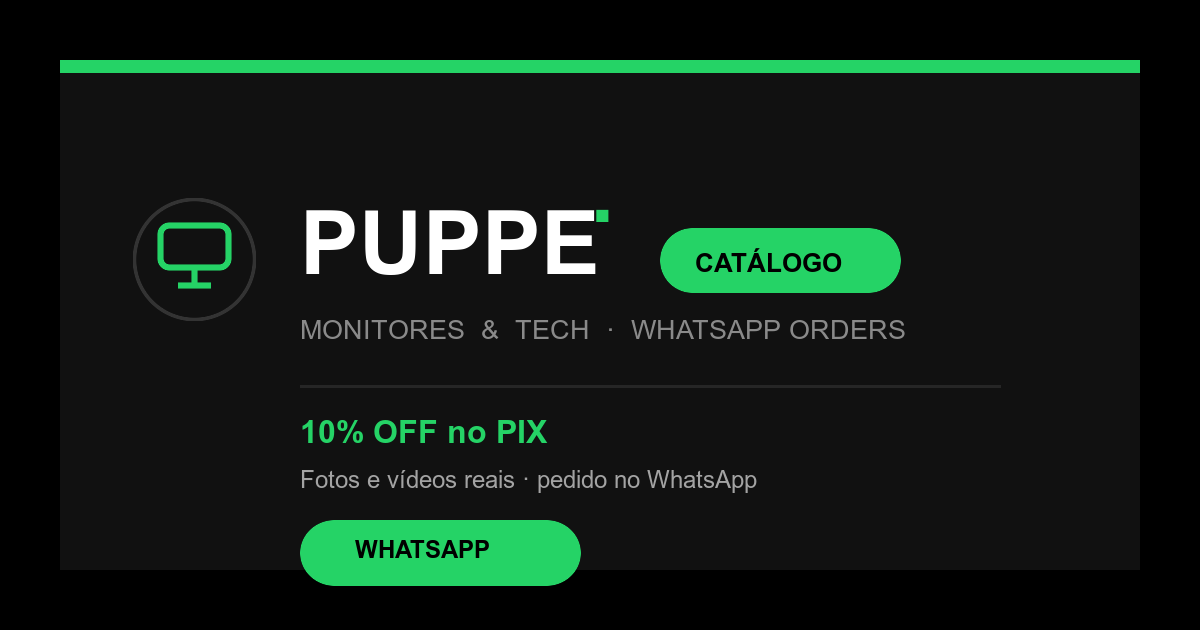
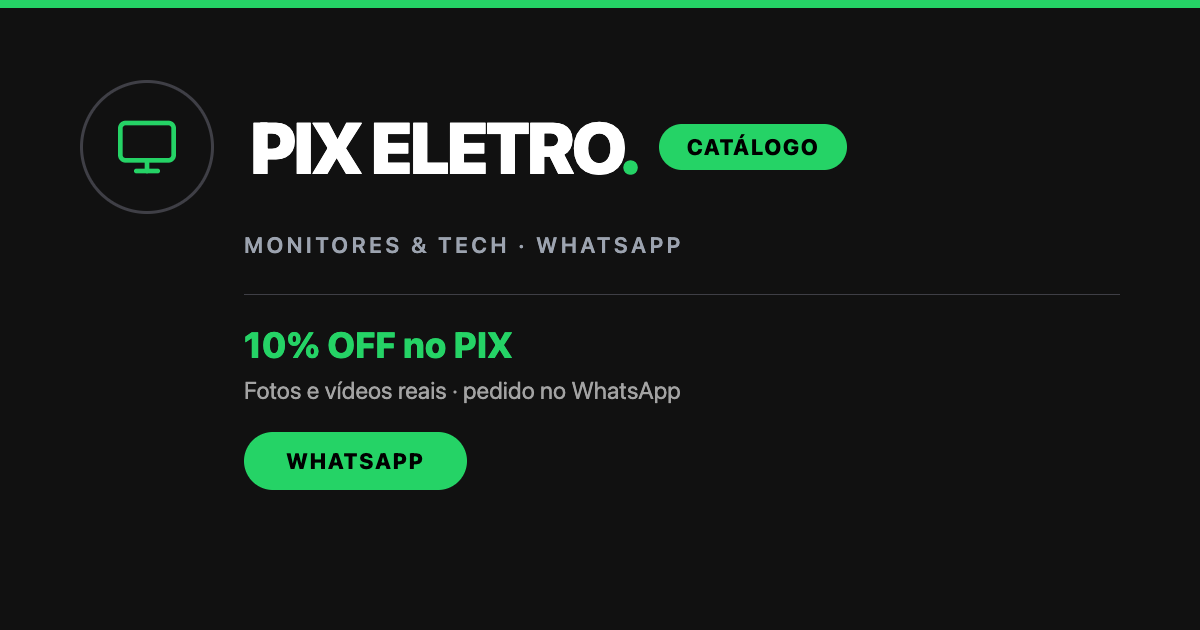
feat: rebrand shop to Pix Eletro
Wordmark, PWA, OG card, company default and theme key
now say Pix Eletro instead of Puppe Eletrônicos.

diff --git a/web/templates/app.html b/web/templates/app.html
@@ -8,7 +8,7 @@
   <script>
     (function () {
       try {
-        var t = localStorage.getItem('puppe-shop-theme')
+        var t = localStorage.getItem('pix-eletro-shop-theme') || localStorage.getItem('puppe-shop-theme')
         if (t !== 'light' && t !== 'dark') t = 'dark'
         document.documentElement.setAttribute('data-shop-theme', t)
         var bg = t === 'light' ? '#f4f6f8' : '#000000'
@@ -23,13 +23,13 @@
   <link rel="preconnect" href="https://fonts.googleapis.com" />
   <link rel="preconnect" href="https://fonts.gstatic.com" crossorigin />
   <link href="https://fonts.googleapis.com/css2?family=Inter:wght@400;500;600;700;800;900&family=JetBrains+Mono:wght@500;600&family=Material+Symbols+Outlined:opsz,wght,FILL,GRAD@24,400,0..1,0&display=swap" rel="stylesheet" />
-  <link rel="stylesheet" href="/static/css/styles.css?v=45" />
-  <link rel="stylesheet" href="/static/build/assets/main.css?v=45" />
-  <link rel="stylesheet" href="/static/css/shop.css?v=10" />
-  <link rel="manifest" href="/static/manifest.webmanifest?v=2" />
+  <link rel="stylesheet" href="/static/css/styles.css?v=46" />
+  <link rel="stylesheet" href="/static/build/assets/main.css?v=46" />
+  <link rel="stylesheet" href="/static/css/shop.css?v=11" />
+  <link rel="manifest" href="/static/manifest.webmanifest?v=3" />
   <meta name="apple-mobile-web-app-capable" content="yes" />
   <meta name="apple-mobile-web-app-status-bar-style" content="black-translucent" />
-  <meta name="apple-mobile-web-app-title" content="Puppe" />
+  <meta name="apple-mobile-web-app-title" content="Pix Eletro" />
   <link rel="icon" href="/static/icons/favicon.ico?v=2" sizes="any" />
   <link rel="icon" type="image/png" sizes="32x32" href="/static/icons/favicon-32.png?v=2" />
   <link rel="icon" type="image/png" sizes="48x48" href="/static/icons/favicon-48.png?v=2" />
@@ -38,6 +38,6 @@
 </head>
 <body class="bg-background text-on-surface">
   {{ .inertia }}
-  <script type="module" src="/static/build/assets/main.js?v=45"></script>
+  <script type="module" src="/static/build/assets/main.js?v=46"></script>
 </body>
 </html>

diff --git a/web/src/pages/Shop/Index.svelte b/web/src/pages/Shop/Index.svelte
@@ -13,7 +13,7 @@
 
   export let products = []
   export let lotOffer = null
-  export let companyName = 'Puppe Eletrônicos'
+  export let companyName = 'Pix Eletro'
   export let whatsappSet = false
   export let whatsappDigits = ''
   export let whatsappHint = ''
@@ -36,7 +36,7 @@
     if (!document.querySelector('link[data-shop-css]')) {
       const link = document.createElement('link')
       link.rel = 'stylesheet'
-      link.href = '/static/css/shop.css?v=10'
+      link.href = '/static/css/shop.css?v=11'
       link.setAttribute('data-shop-css', '1')
       document.head.appendChild(link)
     }
@@ -141,7 +141,7 @@
       'Monitores usados testados. Pedido no WhatsApp. 10% OFF no PIX.'}
   />
   {#if og.image}<meta name="twitter:image" content={og.image} />{/if}
-  <link rel="stylesheet" href="/static/css/shop.css?v=10" data-shop-css="1" />
+  <link rel="stylesheet" href="/static/css/shop.css?v=11" data-shop-css="1" />
 </svelte:head>
 
 <div class={rootClass}>
@@ -158,10 +158,10 @@
         </div>
         <div>
           <div style="display:flex;align-items:center;gap:8px">
-            <div class="shop-logo-title">Puppe<span>.</span></div>
+            <div class="shop-logo-title">Pix Eletro<span>.</span></div>
             <span class="shop-pill">Catálogo</span>
           </div>
-          <p class="shop-sub">Monitores & Tech · WhatsApp Orders</p>
+          <p class="shop-sub">Monitores & Tech · WhatsApp · 10% PIX</p>
         </div>
       </a>
 
@@ -383,7 +383,7 @@
     <div class="shop-footer-bottom">
       <div>
         <strong style="color:#fff;font-weight:900;letter-spacing:-0.03em">
-          PUPPE<span style="color:#25D366">.</span>
+          PIX ELETRO<span style="color:#25D366">.</span>
         </strong>
         <span style="margin-left:8px">{companyName}</span>
       </div>

diff --git a/web/src/pages/Shop/Show.svelte b/web/src/pages/Shop/Show.svelte
@@ -11,7 +11,7 @@
   } from '@/lib/shopTheme.js'
 
   export let product = {}
-  export let companyName = 'Puppe Eletrônicos'
+  export let companyName = 'Pix Eletro'
   export let whatsappSet = false
   export let whatsappDigits = ''
   export let site = {}
@@ -63,7 +63,7 @@
     if (!document.querySelector('link[data-shop-css]')) {
       const link = document.createElement('link')
       link.rel = 'stylesheet'
-      link.href = '/static/css/shop.css?v=10'
+      link.href = '/static/css/shop.css?v=11'
       link.setAttribute('data-shop-css', '1')
       document.head.appendChild(link)
     }
@@ -176,7 +176,7 @@
   {#if og.image || product.thumbUrl || photos[0]?.url}
     <meta name="twitter:image" content={og.image || product.thumbUrl || photos[0]?.url} />
   {/if}
-  <link rel="stylesheet" href="/static/css/shop.css?v=10" data-shop-css="1" />
+  <link rel="stylesheet" href="/static/css/shop.css?v=11" data-shop-css="1" />
 </svelte:head>
 
 <div class={rootClass}>
@@ -189,7 +189,7 @@
         Catálogo
       </a>
       <div style="display:flex;align-items:center;gap:10px">
-        <span class="shop-logo-title" style="font-size:1.15rem">Puppe<span>.</span></span>
+        <span class="shop-logo-title" style="font-size:1.15rem">Pix Eletro<span>.</span></span>
         <button
           type="button"
           class="shop-theme-btn"

diff --git a/web/src/pages/Shop/Lot.svelte b/web/src/pages/Shop/Lot.svelte
@@ -11,7 +11,7 @@
   } from '@/lib/shopTheme.js'
 
   export let lotOffer = {}
-  export let companyName = 'Puppe Eletrônicos'
+  export let companyName = 'Pix Eletro'
   export let whatsappSet = false
   export let whatsappDigits = ''
   export let site = {}
@@ -66,7 +66,7 @@
     if (!document.querySelector('link[data-shop-css]')) {
       const link = document.createElement('link')
       link.rel = 'stylesheet'
-      link.href = '/static/css/shop.css?v=10'
+      link.href = '/static/css/shop.css?v=11'
       link.setAttribute('data-shop-css', '1')
       document.head.appendChild(link)
     }
@@ -151,7 +151,7 @@
   {#if og.image}
     <meta property="og:image" content={og.image} />
   {/if}
-  <link rel="stylesheet" href="/static/css/shop.css?v=10" data-shop-css="1" />
+  <link rel="stylesheet" href="/static/css/shop.css?v=11" data-shop-css="1" />
 </svelte:head>
 
 <div class={rootClass}>
@@ -164,7 +164,7 @@
         Catálogo
       </a>
       <div style="display:flex;align-items:center;gap:10px">
-        <span class="shop-logo-title" style="font-size:1.15rem">Puppe<span>.</span></span>
+        <span class="shop-logo-title" style="font-size:1.15rem">Pix Eletro<span>.</span></span>
         <button
           type="button"
           class="shop-theme-btn"

diff --git a/web/src/pages/Shop/Index.test.js b/web/src/pages/Shop/Index.test.js
@@ -3,7 +3,10 @@ import { dirname, resolve } from 'node:path'
 import { fileURLToPath } from 'node:url'
 import { describe, expect, it } from 'vitest'
 
-const page = readFileSync(resolve(dirname(fileURLToPath(import.meta.url)), 'Index.svelte'), 'utf8')
+const dir = dirname(fileURLToPath(import.meta.url))
+const page = readFileSync(resolve(dir, 'Index.svelte'), 'utf8')
+const show = readFileSync(resolve(dir, 'Show.svelte'), 'utf8')
+const lot = readFileSync(resolve(dir, 'Lot.svelte'), 'utf8')
 
 describe('Catálogo da loja', () => {
   it('não anuncia o lote fechado de R$ 1.500', () => {
@@ -16,4 +19,14 @@ describe('Catálogo da loja', () => {
     expect(page).not.toMatch(/Monitores <em>testados<\/em>/)
     expect(page).not.toMatch(/Ver catálogo/)
   })
+
+  it('marca o catálogo como Pix Eletro', () => {
+    for (const src of [page, show, lot]) {
+      expect(src).toMatch(/companyName = 'Pix Eletro'/)
+      expect(src).toMatch(/Pix Eletro<span>\.<\/span>/)
+      expect(src).not.toMatch(/Puppe/)
+    }
+    expect(page).toMatch(/PIX ELETRO<span/)
+  })
 })
+

diff --git a/web/src/lib/shopWhatsApp.test.js b/web/src/lib/shopWhatsApp.test.js
@@ -39,9 +39,9 @@ describe('buildCartOrderMessage', () => {
         { name: 'Dell P2219H', qty: 2, priceCents: 30000 },
         { name: 'LG 19', qty: 1, priceCents: 20000 },
       ],
-      { companyName: 'Puppe Eletrônicos' },
+      { companyName: 'Pix Eletro' },
     )
-    expect(msg).toContain('Olá Puppe Eletrônicos!')
+    expect(msg).toContain('Olá Pix Eletro!')
     expect(msg).toContain('2x Dell P2219H')
     expect(msg).toContain('1x LG 19')
     expect(msg).toContain('Total PIX')
@@ -64,7 +64,7 @@ describe('lot order message', () => {
           isLot: true,
         },
       ],
-      { companyName: 'Puppe Eletrônicos' },
+      { companyName: 'Pix Eletro' },
     )
     expect(msg).toContain('lote')
     expect(msg).toContain('22 monitores')

diff --git a/web/src/lib/shopTheme.test.js b/web/src/lib/shopTheme.test.js
@@ -1,0 +1,25 @@
+import { beforeEach, describe, expect, it, vi } from 'vitest'
+import { getShopTheme, setShopTheme } from './shopTheme.js'
+
+const store = new Map()
+
+beforeEach(() => {
+  store.clear()
+  vi.stubGlobal('localStorage', {
+    getItem: (k) => (store.has(k) ? store.get(k) : null),
+    setItem: (k, v) => store.set(k, String(v)),
+    removeItem: (k) => store.delete(k),
+  })
+})
+
+describe('shop theme storage', () => {
+  it('grava em pix-eletro-shop-theme', () => {
+    setShopTheme('light')
+    expect(store.get('pix-eletro-shop-theme')).toBe('light')
+  })
+
+  it('lê o tema legado puppe-shop-theme quando a chave nova está vazia', () => {
+    store.set('puppe-shop-theme', 'light')
+    expect(getShopTheme()).toBe('light')
+  })
+})

diff --git a/web/src/lib/shopTheme.js b/web/src/lib/shopTheme.js
@@ -1,9 +1,10 @@
-const STORAGE_KEY = 'puppe-shop-theme'
+const STORAGE_KEY = 'pix-eletro-shop-theme'
+const LEGACY_STORAGE_KEY = 'puppe-shop-theme'
 
 /** @returns {'dark'|'light'} */
 export function getShopTheme() {
   try {
-    const v = localStorage.getItem(STORAGE_KEY)
+    const v = localStorage.getItem(STORAGE_KEY) || localStorage.getItem(LEGACY_STORAGE_KEY)
     if (v === 'light' || v === 'dark') return v
   } catch {
     // ignore

diff --git a/web/static/css/shop.css b/web/static/css/shop.css
@@ -1,4 +1,4 @@
-/* Puppe catálogo — standalone theme (does not rely on Tailwind purge) */
+/* Pix Eletro catálogo — standalone theme (does not rely on Tailwind purge) */
 .shop {
   --shop-bg: #000000;
   --shop-panel: #171717;
@@ -1086,6 +1086,9 @@
   }
 }
 @media (max-width: 640px) {
+  .shop-logo-title {
+    font-size: 1.15rem;
+  }
   .shop-lightbox-stage {
     padding: 0.25rem 0.5rem 0.75rem;
   }

diff --git a/web/src/pages/Config/Index.svelte b/web/src/pages/Config/Index.svelte
@@ -87,7 +87,7 @@
           bind:value={company.company_name}
           class="ahq-input"
           maxlength="80"
-          placeholder="Ex: Puppe Leilões"
+          placeholder="Ex: Pix Eletro"
         />
         {#if errors.company_name}
           <p class="text-error text-sm mt-1">{errors.company_name}</p>

diff --git a/web/static/js/sw.js b/web/static/js/sw.js
@@ -1,4 +1,4 @@
-const CACHE_VERSION = 48;
+const CACHE_VERSION = 49;
 const CACHE = "cais-static-v" + CACHE_VERSION;
 
 const PRECACHE = [

diff --git a/internal/domain/og_test.go b/internal/domain/og_test.go
@@ -17,15 +17,26 @@ func TestAbsoluteURL(t *testing.T) {
 	}
 }
 
+func TestOGHeadHTML_emptySiteNameFallsBackToPixEletro(t *testing.T) {
+	html := OGHeadHTML(OGMeta{Title: "Catálogo"})
+	if !strings.Contains(html, `property="og:site_name" content="Pix Eletro"`) {
+		t.Fatalf("missing Pix Eletro site_name in %s", html)
+	}
+	if strings.Contains(html, `content="Puppe"`) {
+		t.Fatal("legacy Puppe site_name still present")
+	}
+}
+
 func TestOGHeadHTML(t *testing.T) {
 	html := OGHeadHTML(OGMeta{
 		Title:       `Monitor "LG"`,
 		Description: "Usado · testado",
 		ImageURL:    "http://localhost:8080/static/og-shop.png",
 		PageURL:     "http://localhost:8080/",
-		SiteName:    "Puppe",
+		SiteName:    "Pix Eletro",
 		Type:        "website",
 	})
+
 	for _, want := range []string{
 		`property="og:title"`,
 		`Monitor &#34;LG&#34;`,
